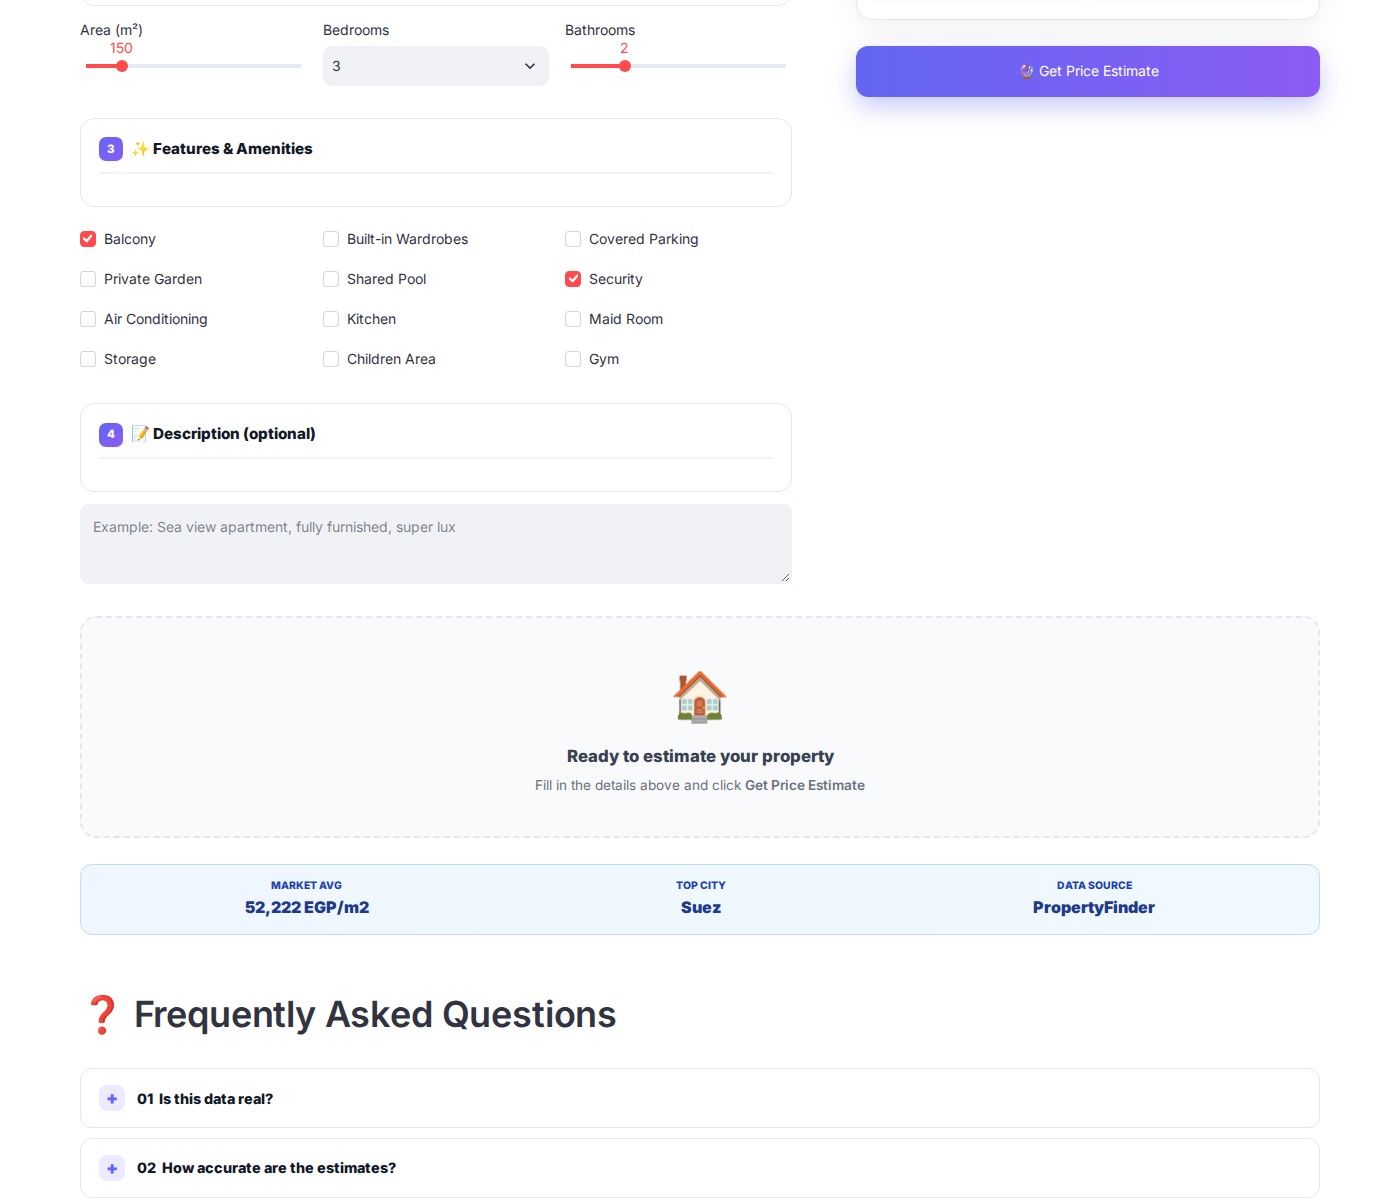
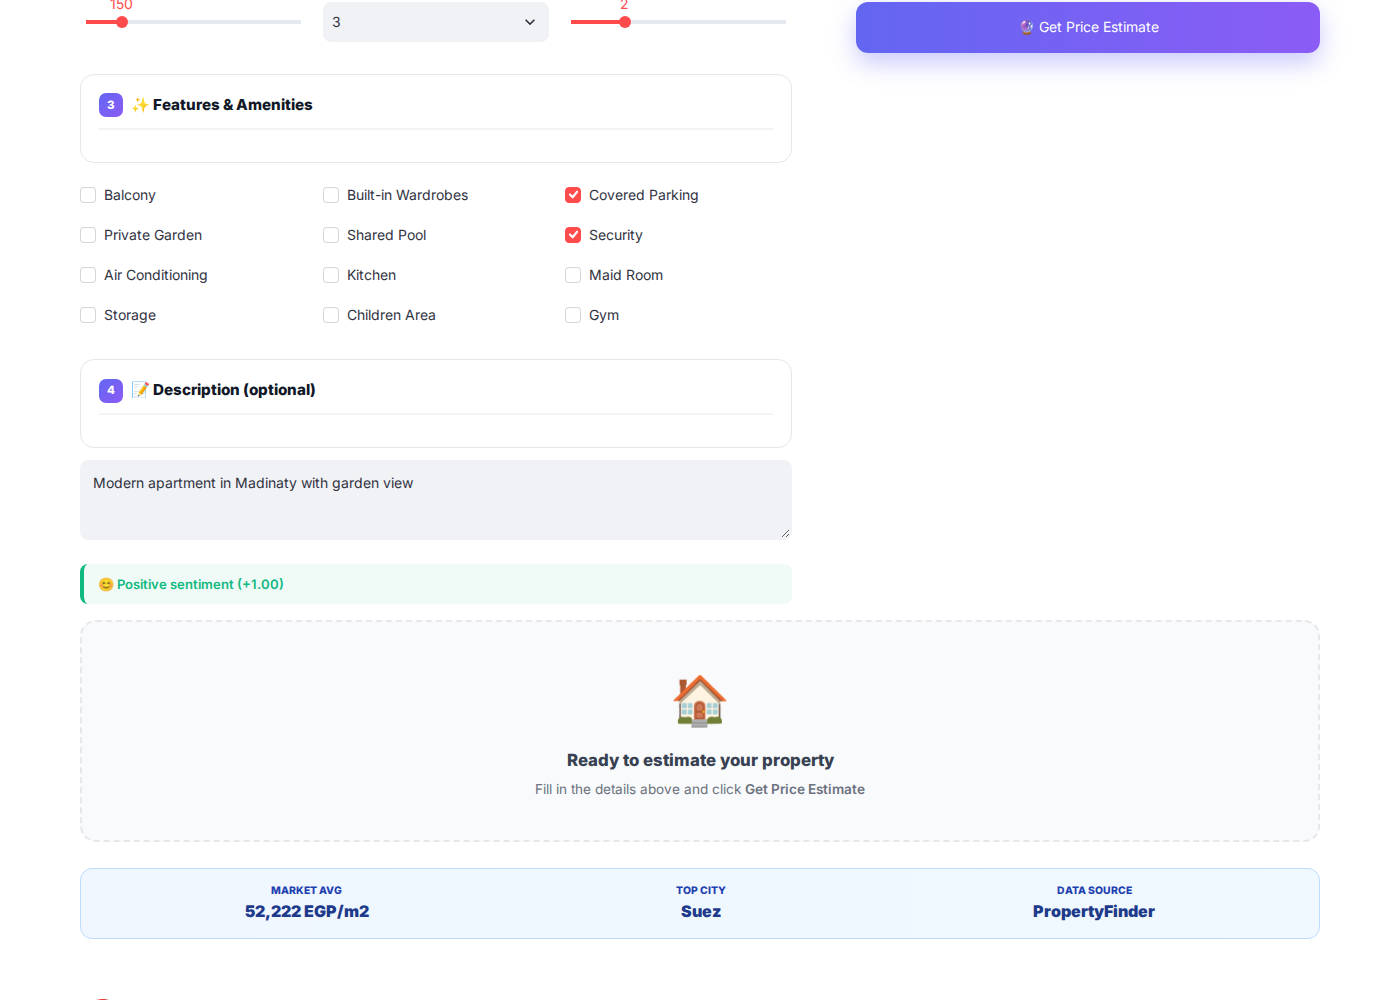
docs: fix screenshot references + add GIF/TOC/Why section
Final README polish:
- Fixed screenshot references (old names → new names)
- Regenerated all 6 screenshots (unique, no duplicates)
- Added animated GIF demo (0.29 MB)
- Added Table of Contents
- Added "Why This Project?" section with comparison table
- Added dynamic GitHub badges (stars, last commit, size, license)
- All 7 screenshot references match actual files
- Verified: 17 sections, all internal links work

Full project verification:
- 8/8 Python files syntax valid
- 4 models loaded correctly
- 7 screenshots (6 PNG + 1 GIF)
- README: 17,750 chars, 644 lines
- All numbers consistent

Status: 100% ready for scholarship.

diff --git a/README.md b/README.md
@@ -30,7 +30,95 @@
   <img src="https://img.shields.io/badge/Flask-000000?style=flat-square&logo=flask&logoColor=white" />
   <img src="https://img.shields.io/badge/Docker-2496ED?style=flat-square&logo=docker&logoColor=white" />
   <img src="https://img.shields.io/badge/Tests-28_Passing-43A047?style=flat-square&logo=pytest&logoColor=white" />
+  <br>
+  <img src="https://img.shields.io/github/stars/qamarsobhy7-source/Smart-House-Price-Predictor?style=flat-square&color=yellow&logo=github" alt="Stars" />
+  <img src="https://img.shields.io/github/last-commit/qamarsobhy7-source/Smart-House-Price-Predictor?style=flat-square&color=blue" alt="Last Commit" />
+  <img src="https://img.shields.io/github/repo-size/qamarsobhy7-source/Smart-House-Price-Predictor?style=flat-square&color=purple" alt="Repo Size" />
+  <img src="https://img.shields.io/github/license/qamarsobhy7-source/Smart-House-Price-Predictor?style=flat-square&color=green" alt="License" />
 </p>
+
+<br>
+
+---
+
+
+<br>
+
+<p align="center">
+  <img src="screenshots/demo.gif" alt="Live Demo" width="90%" style="border-radius: 10px; box-shadow: 0 10px 30px rgba(0,0,0,0.15);" />
+</p>
+
+<br>
+
+---
+
+## 📚 Table of Contents
+
+<details open>
+<summary><b>Click to expand/collapse</b></summary>
+
+<br>
+
+- [📖 Overview](#-overview)
+- [✨ Features](#-features)
+- [📸 Screenshots](#-screenshots)
+- [🚀 Quick Start](#-quick-start)
+- [🧪 Testing](#-testing)
+- [🧠 Model Details](#-model-details)
+- [📂 Project Structure](#-project-structure)
+- [🌍 Data Source](#-data-source)
+- [🛠 Tech Stack](#-tech-stack)
+- [📝 API Usage](#-api-usage)
+- [⚠ Limitations](#-limitations)
+- [🔮 Roadmap](#-roadmap)
+- [📊 Project Statistics](#-project-statistics)
+- [📄 License](#-license)
+- [🙏 Acknowledgments](#-acknowledgments)
+
+</details>
+
+---
+
+## 🎯 Why This Project?
+
+Real estate pricing in Egypt faces three critical problems:
+
+<table>
+<tr>
+<td width="33%" align="center">
+
+### 😰 Opaque
+
+Sellers set prices arbitrarily. Buyers have no way to verify what's fair.
+
+</td>
+<td width="33%" align="center">
+
+### 💸 Expensive
+
+Hiring a certified appraiser costs **thousands of EGP** and takes weeks.
+
+</td>
+<td width="33%" align="center">
+
+### 🐌 Slow
+
+Traditional valuation requires site visits, paperwork, and manual comparison.
+
+</td>
+</tr>
+</table>
+
+### ✅ Our Solution
+
+**Smart House Price Predictor** delivers **instant, transparent, and explainable** valuations:
+
+| Feature | Traditional | Ours |
+|---------|:-----------:|:----:|
+| **Speed** | 1-2 weeks | **3 seconds** |
+| **Cost** | 2,000-5,000 EGP | **Free** |
+| **Explainability** | Report only | **SHAP per feature** |
+| **Data** | Manual comps | **7,749 real listings** |
 
 <br>
 
@@ -150,11 +238,11 @@ We chose **honest performance metrics on real data** over inflated numbers on sy
 ### 💰 Price Prediction Result
 
 <p align="center">
-  <img src="screenshots/05_prediction_result.png" alt="Prediction Result" width="90%" />
+  <img src="screenshots/03_prediction.png" alt="Prediction Result" width="90%" />
 </p>
 
 <details>
-<summary><b>📷 View all 6 more screenshots — click to expand</b></summary>
+<summary><b>📷 View all 4 more screenshots — click to expand</b></summary>
 
 <br>
 
@@ -167,31 +255,19 @@ We chose **honest performance metrics on real data** over inflated numbers on sy
 ### 🧠 Analysis Tabs (SHAP / Market / Similar / Compare / ROI)
 
 <p align="center">
-  <img src="screenshots/06_analysis_tabs.png" alt="Analysis Tabs" width="90%" />
+  <img src="screenshots/04_tabs.png" alt="Analysis Tabs" width="90%" />
 </p>
 
 ### ❓ FAQ Section
 
 <p align="center">
-  <img src="screenshots/07_faq.png" alt="FAQ" width="90%" />
+  <img src="screenshots/05_faq.png" alt="FAQ" width="90%" />
 </p>
 
-### 🏠 Homepage FAQ
+### 🤝 Agent CTA + Footer
 
 <p align="center">
-  <img src="screenshots/03_homepage_faq.png" alt="Homepage FAQ" width="90%" />
-</p>
-
-### 🤝 Agent CTA
-
-<p align="center">
-  <img src="screenshots/08_agent_cta.png" alt="Agent CTA" width="90%" />
-</p>
-
-### 🦶 Footer
-
-<p align="center">
-  <img src="screenshots/04_homepage_footer.png" alt="Footer" width="90%" />
+  <img src="screenshots/06_agent_footer.png" alt="Agent CTA and Footer" width="90%" />
 </p>
 
 </details>
